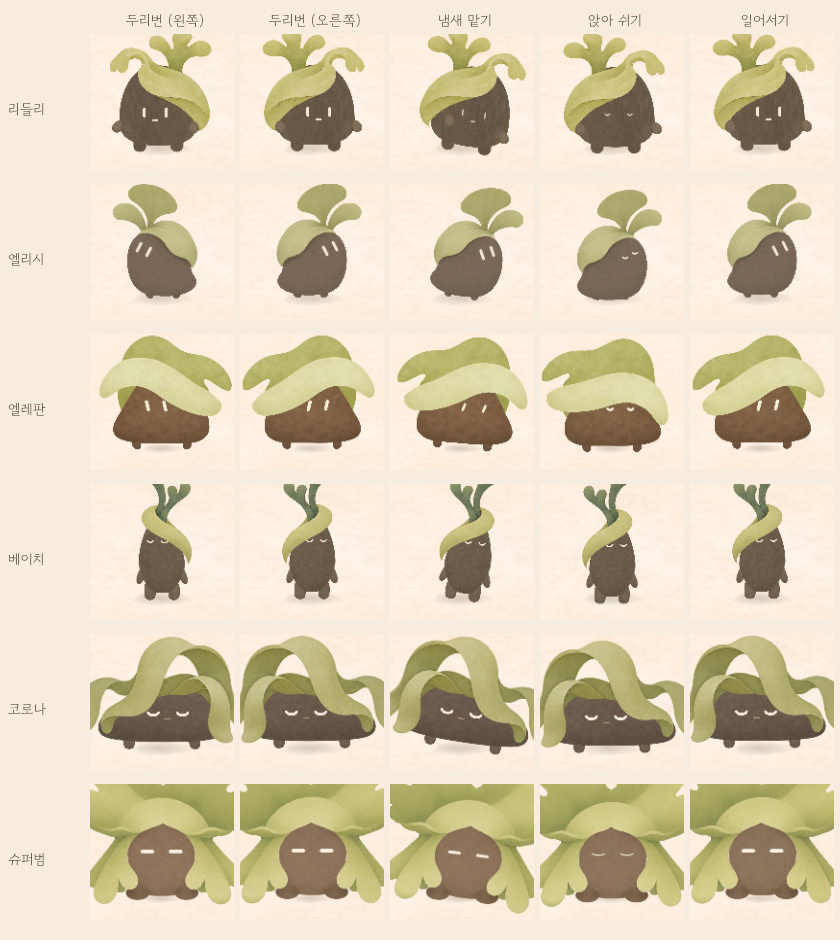
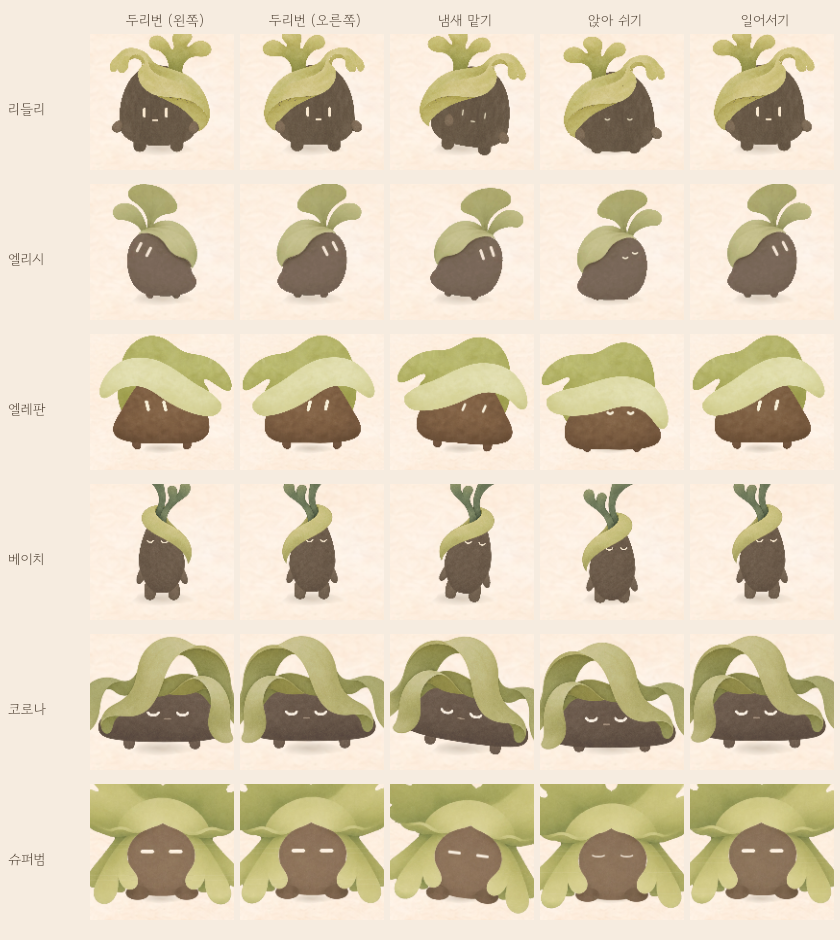
0.8.7: 산책지에서 앉을 때 모든 친구가 엘리시처럼 발은 땅에 두고 몸만 내려앉기
Claude-Session: https://claude.ai/code/session_01AkSebmy3Y1v8yPfHbxXfQs

diff --git a/app/src/main/assets/web/scene.js b/app/src/main/assets/web/scene.js
@@ -226,13 +226,18 @@ class ForestScene {
   // 0.6.38: a 슈퍼범 entering, resting in or leaving a shelter folds its nest leaf (render only; the shelter outline is this pose)
   const huddleTo=p.species==='superbum'&&p.shelter?.facilityId&&['entering','restingInside','exiting'].includes(p.shelter.phase)?1:0;v.huddle??=huddleTo;v.huddle+=Math.sign(huddleTo-v.huddle)*Math.min(Math.abs(huddleTo-v.huddle),elapsed/0.6);if(reduced)v.huddle=huddleTo;
   const targetCanopy=p.species==='neolbi'&&!held?(p.canopyProgress??(p.canopy?1:0)):0;v.canopy??=0;v.canopy+=Math.sign(targetCanopy-v.canopy)*Math.min(Math.abs(targetCanopy-v.canopy),elapsed/.6);if(reduced)v.canopy=targetCanopy;
+  // 0.8.7 (user: "앉아 있는 모션 좀 성의가 없는데, 엘리시처럼 다리가 짧아졌다가 일어날 때 원래 길이로"): sitting down at a walk's
+  // end, the legs shorten over 0.6 s and grow back when it stands up: the part above the legs moves down, the leg band is
+  // kept on the ground while the body settles over them, like 엘리시 (rig option sit). Render only.
+  const sitTo=kind==='rest'&&p.stroll?.arrivedAt!=null?1:0;v.sit??=sitTo;v.sit+=Math.sign(sitTo-v.sit)*Math.min(Math.abs(sitTo-v.sit),elapsed/.6);if(reduced)v.sit=sitTo;
+  v.sitK=v.sit>0?v.sit*v.sit*(3-2*v.sit):0;
   const seed=[...p.id].reduce((n,x)=>n+x.charCodeAt(0),0)%47/10;
   const bob=v.rest*1.4*growth+(reduced?0:Math.sin(phase*(rest?1.6:1.5)+seed)*(rest?.4:.14));
   c.translate(0,bob);if(!reduced)c.rotate(held?wiggle*.08:drink?.1+Math.sin(phase*5)*.06:0);
   c.scale(1,land?.97:1);const shade=s.patches.find(z=>z.id==='shade');if(!held&&((shade&&Math.abs(pos.x-shade.x)<.09&&Math.abs(pos.y-shade.y)<.04)||s.individuals.some(n=>n.id!==p.id&&n.active&&n.species==='neolbi'&&n.canopyProgress>=1&&ForestNeolbi.canFit(n,pos,p))))c.filter='brightness(.86)';
   // Common intact-body renderer for every current and future character.
   c.save();c.scale(size/1254,size/1254);c.translate(-627,-1065.9);
-  const expression=this.inspector?.expression!=='auto'&&this.inspector?.expression|| (rest?'sleepy':held?'surprised':p.B<35||p.energy<40||p.burden>=40?'sad':groom||drink||kind==='sniff'?'focused':this.selected===p.id?'happy':'neutral');ForestRig.draw(c,this.assets,{kind:p.species==='superbum'&&kind==='idle'&&p.harvestTick>0?'collect':kind==='sniff'?'drink':kind,water:p.species==='superbum'?(p.V||0)/Forest.Social.NEST:0,phase:(typeof ForestNeolbi!=='undefined'&&p.species==='neolbi'?ForestNeolbi.Motion.active(s,p):null)?s.worldTick-(typeof ForestNeolbi!=='undefined'&&p.species==='neolbi'?ForestNeolbi.Motion.active(s,p):null).start+(phase%1):phase,reduced,wiggle,seed,restBlend:v.rest,huddle:v.huddle||0,expression,species:p.species,itch:(Forest.Creatures?.onLeaf?.(s,p.id)?.mite?.density||0)>=5,personality:p.personality,clip:(typeof ForestNeolbi!=='undefined'&&p.species==='neolbi'?ForestNeolbi.Motion.active(s,p):null)?.id,snow:Math.min(1,(p.snowWater||0)/(12*Forest.Environment.area(p))),wetFilm:p.wetFilm||0,damage:p.damage||0,burden:p.burden||0,canopy:v.canopy,wind:s.weather.wind,rain:s.weather.kind==='rain',deferFront:p.species==='neolbi'&&!held&&v.canopy>.001,onHood:m=>{if(!m||![m.a,m.b,m.c,m.d,m.e,m.f].every(Number.isFinite))return false;(this.hoodPasses??=[]).push({matrix:[m.a,m.b,m.c,m.d,m.e,m.f],open:v.canopy,snow:Math.min(1,(p.snowWater||0)/(12*Forest.Environment.area(p))),wet:p.wetFilm||0,time:phase,reduced,filter:c.filter,alpha:c.globalAlpha,rain:s.weather.kind==='rain'});return true;}});c.restore();
+  const expression=this.inspector?.expression!=='auto'&&this.inspector?.expression|| (rest?'sleepy':held?'surprised':p.B<35||p.energy<40||p.burden>=40?'sad':groom||drink||kind==='sniff'?'focused':this.selected===p.id?'happy':'neutral');const rigOpt={kind:p.species==='superbum'&&kind==='idle'&&p.harvestTick>0?'collect':kind==='sniff'?'drink':kind,water:p.species==='superbum'?(p.V||0)/Forest.Social.NEST:0,phase:(typeof ForestNeolbi!=='undefined'&&p.species==='neolbi'?ForestNeolbi.Motion.active(s,p):null)?s.worldTick-(typeof ForestNeolbi!=='undefined'&&p.species==='neolbi'?ForestNeolbi.Motion.active(s,p):null).start+(phase%1):phase,reduced,wiggle,seed,restBlend:v.rest,huddle:v.huddle||0,expression,species:p.species,itch:(Forest.Creatures?.onLeaf?.(s,p.id)?.mite?.density||0)>=5,personality:p.personality,clip:(typeof ForestNeolbi!=='undefined'&&p.species==='neolbi'?ForestNeolbi.Motion.active(s,p):null)?.id,snow:Math.min(1,(p.snowWater||0)/(12*Forest.Environment.area(p))),wetFilm:p.wetFilm||0,damage:p.damage||0,burden:p.burden||0,canopy:v.canopy,wind:s.weather.wind,rain:s.weather.kind==='rain',deferFront:p.species==='neolbi'&&!held&&v.canopy>.001,onHood:m=>{if(!m||![m.a,m.b,m.c,m.d,m.e,m.f].every(Number.isFinite))return false;(this.hoodPasses??=[]).push({matrix:[m.a,m.b,m.c,m.d,m.e,m.f],open:v.canopy,snow:Math.min(1,(p.snowWater||0)/(12*Forest.Environment.area(p))),wet:p.wetFilm||0,time:phase,reduced,filter:c.filter,alpha:c.globalAlpha,rain:s.weather.kind==='rain'});return true;}};ForestRig.draw(c,this.assets,{...rigOpt,sit:v.sitK||0});c.restore();
   if(p.wetFilm>.1&&p.species!=='neolbi'){c.save();c.globalAlpha=p.wetFilm*.5;c.fillStyle='#bdd6cc';for(let j=0;j<3;j++){c.beginPath();c.ellipse((j-1)*size*.15,-size*(.55+Math.abs(j-1)*.12),.7,1.2,0,0,Math.PI*2);c.fill();}c.restore();}if(p.burden>=20||p.damage>=10){c.save();c.fillStyle=p.burden>=20?'#8da7a2':'#b49e74';c.globalAlpha=.7;c.beginPath();c.ellipse(size*.34,-size*.40,1.7,2.2,0,0,Math.PI*2);c.fill();c.restore();}if(drink){c.fillStyle='#a8ccd1';c.beginPath();c.arc(size*.04,-size*.17,1.2,0,Math.PI*2);c.fill();}
   c.restore();
  }

diff --git a/app/src/main/assets/web/species-rig.js b/app/src/main/assets/web/species-rig.js
@@ -77,8 +77,8 @@ function ellisiiActor(c,x,y,t,p){const d=data.bonbon,g=p.growth??.65,m=p.mode||'
  if(layer('Leaf')){const lift=still?(rest?-.01:0):walk?Math.abs(beat)*(run?.05:.035):m==='held'?Math.sin(t*6)*.06:rest?-.012+Math.sin(t*1.1)*.006:Math.sin(t*1.2)*.012;c.save();c.translate(ELLI.leafPivot.x,ELLI.leafPivot.y);c.rotate(lift);c.translate(-ELLI.leafPivot.x,-ELLI.leafPivot.y);draw(layer('Leaf'),true);c.restore();}
  c.restore();const toWorld=h=>({x:x+h.x*g,y:y+(h.y+bodyY-(p.lift||0))*g}),tip=toWorld({x:r[0]+3,y:-8});return{hands:[],tip,face:{x,y:y-16*g*.55},width:20.5*g,height:33*g};}
 function actor(c,k,x,y,t,p={}){if(k==='bonbon')return ellisiiActor(c,x,y,t,p);if(!data[k])return duriActor(c,k,x,y,t,p);const d=data[k],g=p.growth??.65,m=p.mode||'idle',walk=['walk','run','slow'].includes(m),beat=Math.sin(t*d.tempo*(m==='run'?12:8)),rest=p.rest??(['sleep','rest','moss'].includes(m)?1:0),bob=walk?-Math.abs(beat)*.65:m==='held'?Math.sin(t*7)*.22:Math.sin(t*1.4)*.09;
-c.save();c.translate(x,y);c.scale(g,g);c.translate(0,bob+rest*.7-(p.lift||0));c.rotate((p.tilt||0)+(m==='held'?Math.sin(t*5)*.075:0));if(d.hat)hatLayer(c,d,t,p,true);
-for(let i=0;i<2;i++){const s=i?1:-1;c.save();c.translate(s*d.w*.25,k==='bonbon'?-2.2:-3);c.rotate(walk?s*beat*.35:m==='held'?s*Math.sin(t*10+i)*.62:m==='splash'?s*Math.sin(t*7)*.25:0);img(c,d,d.legs[i],k==='bonbon'?-1.55:-1.9,k==='bonbon'?-2:-2.2,k==='bonbon'?3.1:3.8,k==='bonbon'?4.2:5.7);c.restore();}
+const sit=p.sit||0,sd=k==='bosong'?2.6:1.4,sink=sit*(rest*.7+sd);c.save();c.translate(x,y);c.scale(g,g);c.translate(0,bob+rest*.7+sit*sd-(p.lift||0));c.rotate((p.tilt||0)+(m==='held'?Math.sin(t*5)*.075:0));if(d.hat)hatLayer(c,d,t,p,true);
+for(let i=0;i<2;i++){const s=i?1:-1;c.save();c.translate(s*d.w*.25,(k==='bonbon'?-2.2:-3)-sink);c.rotate(walk?s*beat*.35:m==='held'?s*Math.sin(t*10+i)*.62:m==='splash'?s*Math.sin(t*7)*.25:0);img(c,d,d.legs[i],k==='bonbon'?-1.55:-1.9,k==='bonbon'?-2:-2.2,k==='bonbon'?3.1:3.8,k==='bonbon'?4.2:5.7);c.restore();}
 if(k==='bosong'){c.save();c.beginPath();c.ellipse(0,-d.h/2-1.5,d.w/2,d.h/2,0,0,Math.PI*2);c.clip();img(c,d,d.body,-d.w/2,-d.h-1.5,d.w,d.h);c.restore();}else img(c,d,d.body,-d.w/2,-d.h-1.5,d.w,d.h);
 // Texture eyelids are a separate animation overlay. The body texture never changes.
 if(m==='sleep'||m==='rest'||m==='moss')for(const e of d.eyes){const ex=-d.w/2+e[0]*d.w,ey=-d.h-1.5+e[1]*d.h;if(k==='bonbon'||k==='neolbi'){c.save();c.beginPath();c.ellipse(ex,ey,1.6,2.2,0,0,7);c.clip();img(c,d,k==='bonbon'?[d.body[0]+d.body[2]*.30,d.body[1]+d.body[3]*.30,70,80]:[d.body[0]+d.body[2]*.42,d.body[1]+d.body[3]*.72,70,80],ex-1.7,ey-2.3,3.4,4.6);c.restore();c.strokeStyle='#f6ebd3';c.lineWidth=.42;c.lineCap='round';c.beginPath();c.moveTo(ex-.65,ey);c.quadraticCurveTo(ex,ey+.6,ex+.65,ey);c.stroke();}}
@@ -101,6 +101,6 @@ const la=(p.leafAngle||0)+Math.sin(t*d.tempo*1.5)*.012, pivot=-d.h*.78, tx=tip.x
 c.restore();const toWorld=h=>({x:x+h.x*g,y:y+(h.y+bob+rest*.7-(p.lift||0))*g});return{hands:hands.map(toWorld),tip:toWorld(tip),face:{x,y:y-d.h*g*.55},width:d.w*g,height:d.h*g};}
 
 const files={ellisiiBody:'assets/forest/species/ellisii-body.png',ellisiiFronds:'assets/forest/species/ellisii-fronds.png',ellisiiFrondLeft:'assets/forest/species/ellisii-frond-left.png',ellisiiFrondRight:'assets/forest/species/ellisii-frond-right.png',ellisiiLeaf:'assets/forest/species/ellisii-leaf.png',ellisiiFootLeft:'assets/forest/species/ellisii-foot-left.png',ellisiiFootRight:'assets/forest/species/ellisii-foot-right.png'};for(const k of ['bonbon','bosong','jureong','duri'])files['species_'+k]='assets/forest/species/'+k+'.png';
-function draw(c,assets,opt){const k=opt.species;if(!['bonbon','bosong','jureong','duri'].includes(k))return false;for(const name of Object.keys(data)){data[name].im=assets['species_'+name];data[name].snow=opt.snow||0;}A={snow:opt.snow||0,ellisiiBody:assets.ellisiiBody,ellisiiFronds:assets.ellisiiFronds,ellisiiFrondLeft:assets.ellisiiFrondLeft,ellisiiFrondRight:assets.ellisiiFrondRight,ellisiiLeaf:assets.ellisiiLeaf,ellisiiFootLeft:assets.ellisiiFootLeft,ellisiiFootRight:assets.ellisiiFootRight,body:assets.rigBody,palm:assets.rigPalm,'leg-left':assets.rigLegLeft,'leg-right':assets.rigLegRight,duri:assets.species_duri,duriBounds:[223,121,869,663]};if(k==='duri')initMesh();c.save();c.translate(627,1065.9);c.scale(1254/48,1254/48);actor(c,k,0,0,opt.reduced?1:opt.phase,{mode:opt.kind,growth:1,expr:opt.expression,noShadow:true,reduced:opt.reduced,litterUp:opt.litterUp||0});c.restore();return true;}
+function draw(c,assets,opt){const k=opt.species;if(!['bonbon','bosong','jureong','duri'].includes(k))return false;for(const name of Object.keys(data)){data[name].im=assets['species_'+name];data[name].snow=opt.snow||0;}A={snow:opt.snow||0,ellisiiBody:assets.ellisiiBody,ellisiiFronds:assets.ellisiiFronds,ellisiiFrondLeft:assets.ellisiiFrondLeft,ellisiiFrondRight:assets.ellisiiFrondRight,ellisiiLeaf:assets.ellisiiLeaf,ellisiiFootLeft:assets.ellisiiFootLeft,ellisiiFootRight:assets.ellisiiFootRight,body:assets.rigBody,palm:assets.rigPalm,'leg-left':assets.rigLegLeft,'leg-right':assets.rigLegRight,duri:assets.species_duri,duriBounds:[223,121,869,663]};if(k==='duri')initMesh();c.save();c.translate(627,1065.9);c.scale(1254/48,1254/48);actor(c,k,0,0,opt.reduced?1:opt.phase,{mode:opt.kind,growth:1,expr:opt.expression,noShadow:true,reduced:opt.reduced,litterUp:opt.litterUp||0,sit:opt.sit||0});c.restore();return true;}
 return {files,draw};
 });

diff --git a/app/src/main/assets/web/rig.js b/app/src/main/assets/web/rig.js
@@ -14,12 +14,14 @@ function pose(kind,t,reduced=false,wiggle=0){
  const cycle=((t%4)+4)%4,reach=kind==='groom'?(cycle<.8?Math.sin(cycle/.8*Math.PI/2):cycle<2.8?1:cycle<3.6?Math.cos((cycle-2.8)/.8*Math.PI/2):0):0;
  return {left:wave*.32+wiggle*.12,right:-wave*.32-wiggle*.12,bob:-Math.abs(wave)*13,reach,stroke:reach===1?Math.sin(cycle*9)*8:0,swing:wave*.08};
 }
-function drawCore(c,assets,{kind='idle',phase=0,reduced=false,wiggle=0,bodyAlpha=1,expression,species='ridley',personality,clip,hasProp=false,canopy=0,wind=0,rain=false,deferFront=false,onHood,seed=0,snow=0,restBlend=kind==='rest'?1:0,water=0,side=1,litterUp=0,huddle=0}={}){
- if(species==='superbum')return Superbum.draw(c,assets,{kind,phase,reduced,expression,seed,snow,restBlend,water,side,huddle});
- if(species==='neolbi')return Neolbi.draw(c,assets,{kind,phase,reduced,wiggle,expression,canopy,wind,rain,deferFront,onHood,personality,clip,hasProp,snow});
- if(Species.draw(c,assets,{kind,phase,reduced,wiggle,expression,species,snow,litterUp}))return;
+function drawCore(c,assets,{kind='idle',phase=0,reduced=false,wiggle=0,bodyAlpha=1,expression,species='ridley',personality,clip,hasProp=false,canopy=0,wind=0,rain=false,deferFront=false,onHood,seed=0,snow=0,restBlend=kind==='rest'?1:0,water=0,side=1,litterUp=0,huddle=0,sit=0}={}){
+ if(species==='superbum')return Superbum.draw(c,assets,{kind,phase,reduced,expression,seed,snow,restBlend,water,side,huddle,sit});
+ if(species==='neolbi')return Neolbi.draw(c,assets,{kind,phase,reduced,wiggle,expression,canopy,wind,rain,deferFront,onHood,personality,clip,hasProp,snow,sit});
+ if(Species.draw(c,assets,{kind,phase,reduced,wiggle,expression,species,snow,litterUp,sit}))return;
  const p=pose(kind,phase,reduced,wiggle);c.save();c.translate(0,p.bob);
  for(const [i,x]of [515,795].entries()){c.save();c.translate(x,930);c.rotate(i?p.right:p.left);c.drawImage(assets[definition.legs[i]],-49,-45,98,202.385);c.restore();}
+ // 0.8.7 sit (stroll rest): the legs stay on the ground, everything above settles over them like 엘리시
+ c.translate(0,sit*95);
  c.save();c.globalAlpha*=bodyAlpha;c.drawImage(assets[definition.body],0,0);c.restore();
  if(bodyAlpha===1){
   const e=expression|| (kind==='rest'?'sleepy':kind==='groom'||kind==='drink'?'focused':kind==='held'?'surprised':'neutral');

diff --git a/app/src/main/assets/web/superbum.js b/app/src/main/assets/web/superbum.js
@@ -81,9 +81,9 @@ function drawSet(c,a,set,p,opt,t){
   for(let y=top;y<420;y+=STRIP){const h=Math.min(STRIP,420-y),f=Math.max(0,(y+h/2-py)/span),w=f*f*(3-2*f),dx=-ang*span*w,dy=-lift*span*.35*w;c.save();c.beginPath();c.rect(-60,y+dy-.75,600,h+1.5);c.clip();c.drawImage(im,dx,dy,480,420);c.restore();}
   if(snowy&&E)E.snow(c,im,snow,0,0,480,420);};
  // body (round face) first; the feet are attached in front of its lower edge (they move with the body and step on their own); leaves and crown move with the body
- const lift=()=>{c.translate(0,p.bob+p.sink);c.translate(240,404);c.rotate(p.tilt);c.scale(1/Math.sqrt(p.squash),p.squash);c.translate(-240,-404);};
+ const sit=opt.sit||0,lift=()=>{c.translate(0,p.bob+p.sink+sit*10);c.translate(240,404);c.rotate(p.tilt);c.scale(1/Math.sqrt(p.squash),p.squash);c.translate(-240,-404);};
  c.save();lift();img('body');eyes(c,set,m,p,a,opt,t);c.restore();
- for(const i of [0,1]){const f=p.feet[i],[fx,fy]=m.feet[i];c.save();c.translate(f.dx,f.dy+p.bob+p.sink);c.translate(fx,fy);c.rotate(f.rot);c.translate(-fx,-fy);img(i?'foot-right':'foot-left');c.restore();}
+ for(const i of [0,1]){const f=p.feet[i],[fx,fy]=m.feet[i];c.save();c.translate(f.dx,f.dy+p.bob+p.sink*(1-sit));c.translate(fx,fy);c.rotate(f.rot);c.translate(-fx,-fy);img(i?'foot-right':'foot-left');c.restore();}
  c.save();lift();
  // each side's leaves hang over its cheek
  // huddled (0.6.38): the outer tips at the top of the side leaves sit under the nest brim; once the nest folds down they

diff --git a/app/src/main/assets/web/neolbi.js b/app/src/main/assets/web/neolbi.js
@@ -20,9 +20,9 @@ function turn(c,im,x,y,angle,snow=0){c.save();c.translate(x,y);c.rotate(angle);c
 function drawLocal(c,a,opt={}){
  const raw=opt.clip||opt.kind;const kind=raw==='idle'&&!(opt.canopy>0)&&((opt.phase||0)%18)<5?'hoodpeek':raw;
  const p=Motion.pose(kind,opt.phase||0,opt),t=opt.reduced?0:opt.phase||0;
- c.save();c.translate(0,p.bob+p.sink);c.translate(127,164);c.rotate(p.body);c.translate(-127,-164);
+ const sit=(opt.sit||0)*16;c.save();c.translate(0,p.bob+p.sink+sit);c.translate(127,164);c.rotate(p.body);c.translate(-127,-164);
  const leafFilter=!(opt.wetFilm||opt.damage)?c.filter:(c.filter&&c.filter!=='none'?c.filter+' ':'')+'brightness('+(1-.10*(opt.wetFilm||0))+') saturate('+(1-.22*Math.min(1,(opt.damage||0)/30))+')';p.front=Math.min(21*Math.PI/180,p.front+(!p.open?.06*Math.min(1,(opt.burden||0)/40):0));c.save();c.filter=leafFilter;turn(c,a.neolbiRear,140,73,p.rear,opt.snow||0);c.restore();
- for(let j=0;j<2;j++){const x=j?181:89;c.save();c.translate(x,177);c.rotate(j?p.right:p.left);c.translate(-x,-177);c.drawImage(a.neolbiLegs,j?510:0,0,510,832,j?127.5:0,0,127.5,208);c.restore();}
+ for(let j=0;j<2;j++){const x=j?181:89;c.save();c.translate(0,-sit);c.translate(x,177);c.rotate(j?p.right:p.left);c.translate(-x,-177);c.drawImage(a.neolbiLegs,j?510:0,0,510,832,j?127.5:0,0,127.5,208);c.restore();}
  c.drawImage(a.neolbiBody,0,0,255,208);
  const blink=!opt.reduced&&t%4.7<.12;
  if(p.eyes==='neutral'&&!blink&&p.look===0)c.drawImage(a.neolbiEyes,0,0,255,208);

diff --git a/AGENTS.md b/AGENTS.md
@@ -4,6 +4,7 @@
 
 변경 내용(렌더·카드 문구만, 상태·난수·저장 불변):
 - **산책지 동작(`objects.js` `strollPose`, `scene.js`):** 산책지에 도착해 둘러보는 15~30초 동안 시간에 따라 바뀐다. 처음 4초는 두리번거리기(1.3초마다 좌우로 몸을 돌림) → 2.5초 고개를 숙여 풀 냄새 맡기(앞으로 기울이며 작게 끄덕임) → 다시 천천히 둘러보기 → 끝나기 7초 전부터 잠깐 앉아 쉬기 → 마지막 1초 일어서기. 카드 문구도 따라 바뀐다("숲 가장자리를 두리번거리고 있어요", "고개를 숙여 풀 냄새를 맡고 있어요", "숲 가장자리에 잠깐 앉아 쉬고 있어요"). 동작 줄이기에서는 몸을 돌리거나 기울이지 않는다.
+- **앉는 모습(사용자 "다른 애들도 엘리시처럼 앉으라고"):** 산책지에서 앉을 때 모든 친구가 엘리시처럼 발은 땅에 그대로 두고 몸이 발 위로 0.6초에 걸쳐 내려앉는다(리들리·베이치·코로나·엘레판은 발이 몸 뒤로 가려짐, 슈퍼범은 발이 몸 앞이라 보임). 일어설 때 같은 빠르기로 원래 높이로 돌아온다. 리그 옵션 `sit`(`rig.js`·`species-rig.js`·`neolbi.js`·`superbum.js`), 렌더 전용. 화면 `docs/qa-0.8.7/runtime/stroll-sit.png`.
 - **걷는 방향 보기:** 다른 친구들은 이미 걷는 쪽을 보고 걸었다(엔진 확인: 리들리 1,500초에 방향 11번 바뀜). 엘레판만 늘 같은 쪽을 봤는데, 이제 잎 우산을 펴거나 접는 중이 아닐 때는 엘레판도 걷는 쪽(그리고 산책지에서 두리번거리는 쪽)을 본다. 잎 우산 아래 친구 자리가 엘레판 오른쪽에 맞춰져 있어서 우산을 펼 때는 그대로 둔다.
 - 버전 0.8.7 / versionCode 65.
 

diff --git a/README.md b/README.md
@@ -4,6 +4,7 @@
 
 변경 내용(렌더·카드 문구만, 상태·난수·저장 불변):
 - **산책지 동작(`objects.js` `strollPose`, `scene.js`):** 산책지에 도착해 둘러보는 15~30초 동안 시간에 따라 바뀐다. 처음 4초는 두리번거리기(1.3초마다 좌우로 몸을 돌림) → 2.5초 고개를 숙여 풀 냄새 맡기(앞으로 기울이며 작게 끄덕임) → 다시 천천히 둘러보기 → 끝나기 7초 전부터 잠깐 앉아 쉬기 → 마지막 1초 일어서기. 카드 문구도 따라 바뀐다("숲 가장자리를 두리번거리고 있어요", "고개를 숙여 풀 냄새를 맡고 있어요", "숲 가장자리에 잠깐 앉아 쉬고 있어요"). 동작 줄이기에서는 몸을 돌리거나 기울이지 않는다.
+- **앉는 모습(사용자 "다른 애들도 엘리시처럼 앉으라고"):** 산책지에서 앉을 때 모든 친구가 엘리시처럼 발은 땅에 그대로 두고 몸이 발 위로 0.6초에 걸쳐 내려앉는다(리들리·베이치·코로나·엘레판은 발이 몸 뒤로 가려짐, 슈퍼범은 발이 몸 앞이라 보임). 일어설 때 같은 빠르기로 원래 높이로 돌아온다. 리그 옵션 `sit`(`rig.js`·`species-rig.js`·`neolbi.js`·`superbum.js`), 렌더 전용. 화면 `docs/qa-0.8.7/runtime/stroll-sit.png`.
 - **걷는 방향 보기:** 다른 친구들은 이미 걷는 쪽을 보고 걸었다(엔진 확인: 리들리 1,500초에 방향 11번 바뀜). 엘레판만 늘 같은 쪽을 봤는데, 이제 잎 우산을 펴거나 접는 중이 아닐 때는 엘레판도 걷는 쪽(그리고 산책지에서 두리번거리는 쪽)을 본다. 잎 우산 아래 친구 자리가 엘레판 오른쪽에 맞춰져 있어서 우산을 펼 때는 그대로 둔다.
 - 버전 0.8.7 / versionCode 65.
 

diff --git a/docs/Forest-0.8.7-Release.md b/docs/Forest-0.8.7-Release.md
@@ -4,6 +4,7 @@
 
 변경 내용(렌더·카드 문구만, 상태·난수·저장 불변):
 - **산책지 동작(`objects.js` `strollPose`, `scene.js`):** 산책지에 도착해 둘러보는 15~30초 동안 시간에 따라 바뀐다. 처음 4초는 두리번거리기(1.3초마다 좌우로 몸을 돌림) → 2.5초 고개를 숙여 풀 냄새 맡기(앞으로 기울이며 작게 끄덕임) → 다시 천천히 둘러보기 → 끝나기 7초 전부터 잠깐 앉아 쉬기 → 마지막 1초 일어서기. 카드 문구도 따라 바뀐다("숲 가장자리를 두리번거리고 있어요", "고개를 숙여 풀 냄새를 맡고 있어요", "숲 가장자리에 잠깐 앉아 쉬고 있어요"). 동작 줄이기에서는 몸을 돌리거나 기울이지 않는다.
+- **앉는 모습(사용자 "다른 애들도 엘리시처럼 앉으라고"):** 산책지에서 앉을 때 모든 친구가 엘리시처럼 발은 땅에 그대로 두고 몸이 발 위로 0.6초에 걸쳐 내려앉는다(리들리·베이치·코로나·엘레판은 발이 몸 뒤로 가려짐, 슈퍼범은 발이 몸 앞이라 보임). 일어설 때 같은 빠르기로 원래 높이로 돌아온다. 리그 옵션 `sit`(`rig.js`·`species-rig.js`·`neolbi.js`·`superbum.js`), 렌더 전용. 화면 `docs/qa-0.8.7/runtime/stroll-sit.png`.
 - **걷는 방향 보기:** 다른 친구들은 이미 걷는 쪽을 보고 걸었다(엔진 확인: 리들리 1,500초에 방향 11번 바뀜). 엘레판만 늘 같은 쪽을 봤는데, 이제 잎 우산을 펴거나 접는 중이 아닐 때는 엘레판도 걷는 쪽(그리고 산책지에서 두리번거리는 쪽)을 본다. 잎 우산 아래 친구 자리가 엘레판 오른쪽에 맞춰져 있어서 우산을 펼 때는 그대로 둔다.
 - 버전 0.8.7 / versionCode 65.
 

diff --git a/docs/IMPLEMENTATION_STATUS.md b/docs/IMPLEMENTATION_STATUS.md
@@ -4,6 +4,7 @@
 
 변경 내용(렌더·카드 문구만, 상태·난수·저장 불변):
 - **산책지 동작(`objects.js` `strollPose`, `scene.js`):** 산책지에 도착해 둘러보는 15~30초 동안 시간에 따라 바뀐다. 처음 4초는 두리번거리기(1.3초마다 좌우로 몸을 돌림) → 2.5초 고개를 숙여 풀 냄새 맡기(앞으로 기울이며 작게 끄덕임) → 다시 천천히 둘러보기 → 끝나기 7초 전부터 잠깐 앉아 쉬기 → 마지막 1초 일어서기. 카드 문구도 따라 바뀐다("숲 가장자리를 두리번거리고 있어요", "고개를 숙여 풀 냄새를 맡고 있어요", "숲 가장자리에 잠깐 앉아 쉬고 있어요"). 동작 줄이기에서는 몸을 돌리거나 기울이지 않는다.
+- **앉는 모습(사용자 "다른 애들도 엘리시처럼 앉으라고"):** 산책지에서 앉을 때 모든 친구가 엘리시처럼 발은 땅에 그대로 두고 몸이 발 위로 0.6초에 걸쳐 내려앉는다(리들리·베이치·코로나·엘레판은 발이 몸 뒤로 가려짐, 슈퍼범은 발이 몸 앞이라 보임). 일어설 때 같은 빠르기로 원래 높이로 돌아온다. 리그 옵션 `sit`(`rig.js`·`species-rig.js`·`neolbi.js`·`superbum.js`), 렌더 전용. 화면 `docs/qa-0.8.7/runtime/stroll-sit.png`.
 - **걷는 방향 보기:** 다른 친구들은 이미 걷는 쪽을 보고 걸었다(엔진 확인: 리들리 1,500초에 방향 11번 바뀜). 엘레판만 늘 같은 쪽을 봤는데, 이제 잎 우산을 펴거나 접는 중이 아닐 때는 엘레판도 걷는 쪽(그리고 산책지에서 두리번거리는 쪽)을 본다. 잎 우산 아래 친구 자리가 엘레판 오른쪽에 맞춰져 있어서 우산을 펼 때는 그대로 둔다.
 - 버전 0.8.7 / versionCode 65.
 

diff --git a/HANDOFF.md b/HANDOFF.md
@@ -664,3 +664,4 @@
 - 변경: `objects.js` `strollPose`(두리번·냄새·앉기·일어서기, 순수 함수)·카드 문구, `scene.js` 자세 적용(냄새=drink 리그+앞으로 기울임, 앉기=rest), 엘레판 잎 우산 아닐 때 걷는 방향 보기. 버전 0.8.7 / versionCode 65.
 - 검증: `npm test` 327/327(`stroll` ST-05), `npm run test:ui` PASS(한 번), 화면 `docs/qa-0.8.7/runtime/stroll-poses.png`. 이후 로컬 검사는 바뀐 부분 관련 테스트만 돌리고 전체는 CI에 맡긴다. Android 실기기 미검증.
 - 다음: 주워 오기·바구니 구현(사용자 확인 후), 지역 해금(동쪽 호수) 기획.
+- 앉는 모습 추가(사용자 "엘리시 앉는 모션이 좋다고", "다른 애들도 엘리시처럼 앉으라고"): 리그 옵션 `sit`로 발은 땅에 두고 몸만 내려앉음(`scene.js` `v.sit` 0.6초 전환, `rig.js`·`species-rig.js`·`neolbi.js`·`superbum.js`). 처음 시도(바닥 기준 잘라 내기·다리 눌러 그리기)는 친구가 사라지거나 파묻혀 보여 버렸다. 화면 `docs/qa-0.8.7/runtime/stroll-sit.png`.
